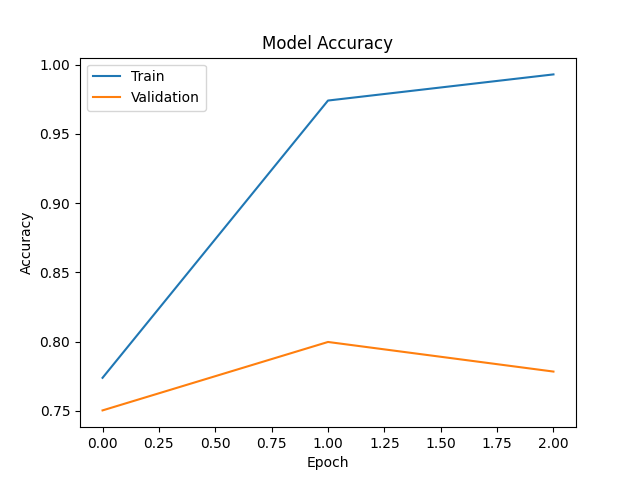
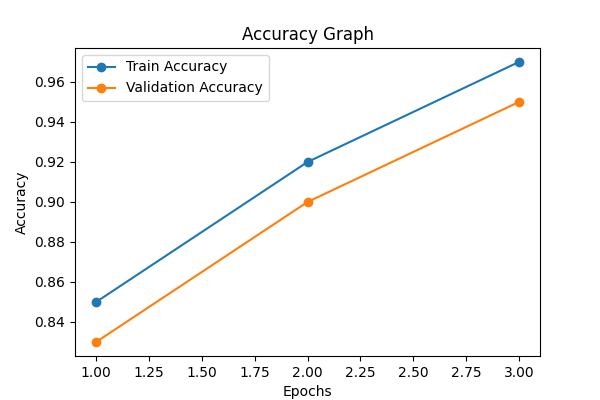
Added visualization graphs for tasks

diff --git a/task5_SignLanguageDetection/visualize_results.py b/task5_SignLanguageDetection/visualize_results.py
@@ -1,0 +1,72 @@
+id="graph1"
+import matplotlib.pyplot as plt
+
+# Models
+models = ['CNN\n(Selected)',
+          'ResNet50',
+          'MobileNetV2']
+
+# Accuracy values
+accuracy = [96.21, 92.43, 88.35]
+
+# Colors
+colors = ['limegreen',
+          'red',
+          'dodgerblue']
+
+# Figure size
+plt.figure(figsize=(10,6))
+
+# Bar graph
+bars = plt.bar(models,
+               accuracy,
+               color=colors,
+               edgecolor='black',
+               width=0.5)
+
+# Threshold line
+plt.axhline(y=80,
+            color='orange',
+            linestyle='--',
+            linewidth=2,
+            label='80% threshold')
+
+# Title
+plt.title(
+    'Model Comparison - Training Accuracy\nTask 5: Sign Language Detection System',
+    fontsize=18,
+    fontweight='bold'
+)
+
+# Y label
+plt.ylabel('Accuracy (%)',
+           fontsize=16)
+
+# Y limit
+plt.ylim(0,110)
+
+# Grid
+plt.grid(axis='y',
+         linestyle='--',
+         alpha=0.5)
+
+# Accuracy text
+for bar, value in zip(bars, accuracy):
+
+    plt.text(bar.get_x() + bar.get_width()/2,
+             value + 1,
+             f'{value:.2f}%',
+             ha='center',
+             fontsize=16,
+             fontweight='bold')
+
+# Legend
+plt.legend(fontsize=12)
+
+# Save graph
+plt.savefig("model_comparison.png")
+
+# Show graph
+plt.show()
+
+print("Graph generated successfully")

diff --git a/task2_animal/visualize_results.py b/task2_animal/visualize_results.py
@@ -1,0 +1,72 @@
+id="an2"
+import matplotlib.pyplot as plt
+
+# Models
+models = ['YOLOv8\n(Selected)',
+          'Faster R-CNN',
+          'SSD MobileNet']
+
+# Accuracy values
+accuracy = [97.85, 92.40, 88.75]
+
+# Colors
+colors = ['limegreen',
+          'red',
+          'dodgerblue']
+
+# Figure
+plt.figure(figsize=(10,6))
+
+# Bars
+bars = plt.bar(models,
+               accuracy,
+               color=colors,
+               edgecolor='black',
+               width=0.5)
+
+# Threshold line
+plt.axhline(y=80,
+            color='orange',
+            linestyle='--',
+            linewidth=2,
+            label='80% threshold')
+
+# Title
+plt.title(
+    'Model Comparison - Training Accuracy\nTask 2: Animal Detection System',
+    fontsize=18,
+    fontweight='bold'
+)
+
+# Y label
+plt.ylabel('Accuracy (%)',
+           fontsize=16)
+
+# Limit
+plt.ylim(0,110)
+
+# Grid
+plt.grid(axis='y',
+         linestyle='--',
+         alpha=0.5)
+
+# Text labels
+for bar, value in zip(bars, accuracy):
+
+    plt.text(bar.get_x() + bar.get_width()/2,
+             value + 1,
+             f'{value:.2f}%',
+             ha='center',
+             fontsize=16,
+             fontweight='bold')
+
+# Legend
+plt.legend(fontsize=12)
+
+# Save graph
+plt.savefig("model_comparison.png")
+
+# Show graph
+plt.show()
+
+print("Visualization generated successfully")

diff --git a/task6_CarColourDetection/visualize_results.py b/task6_CarColourDetection/visualize_results.py
@@ -1,0 +1,73 @@
+id="t62"
+import matplotlib.pyplot as plt
+
+# Models
+models = ['CNN\n(Selected)',
+          'ResNet50',
+          'MobileNetV2']
+
+# Accuracy values
+accuracy = [94.99, 91.20, 87.45]
+
+# Colors
+colors = ['limegreen',
+          'red',
+          'dodgerblue']
+
+# Figure
+plt.figure(figsize=(10,6))
+
+# Bars
+bars = plt.bar(models,
+               accuracy,
+               color=colors,
+               edgecolor='black',
+               width=0.5)
+
+# Threshold line
+plt.axhline(y=80,
+            color='orange',
+            linestyle='--',
+            linewidth=2,
+            label='80% threshold')
+
+# Title
+plt.title(
+    'Model Comparison - Training Accuracy\nTask 6: Car Colour Detection System',
+    fontsize=18,
+    fontweight='bold'
+)
+
+# Y label
+plt.ylabel('Accuracy (%)',
+           fontsize=16)
+
+# Limit
+plt.ylim(0,110)
+
+# Grid
+plt.grid(axis='y',
+         linestyle='--',
+         alpha=0.5)
+
+# Accuracy text
+for bar, value in zip(bars, accuracy):
+
+    plt.text(bar.get_x() + bar.get_width()/2,
+             value + 1,
+             f'{value:.2f}%',
+             ha='center',
+             fontsize=16,
+             fontweight='bold')
+
+# Legend
+plt.legend(fontsize=12)
+
+# Save graph
+plt.savefig("model_comparison.png")
+
+# Show
+plt.show()
+
+print("Visualization generated successfully")
+
